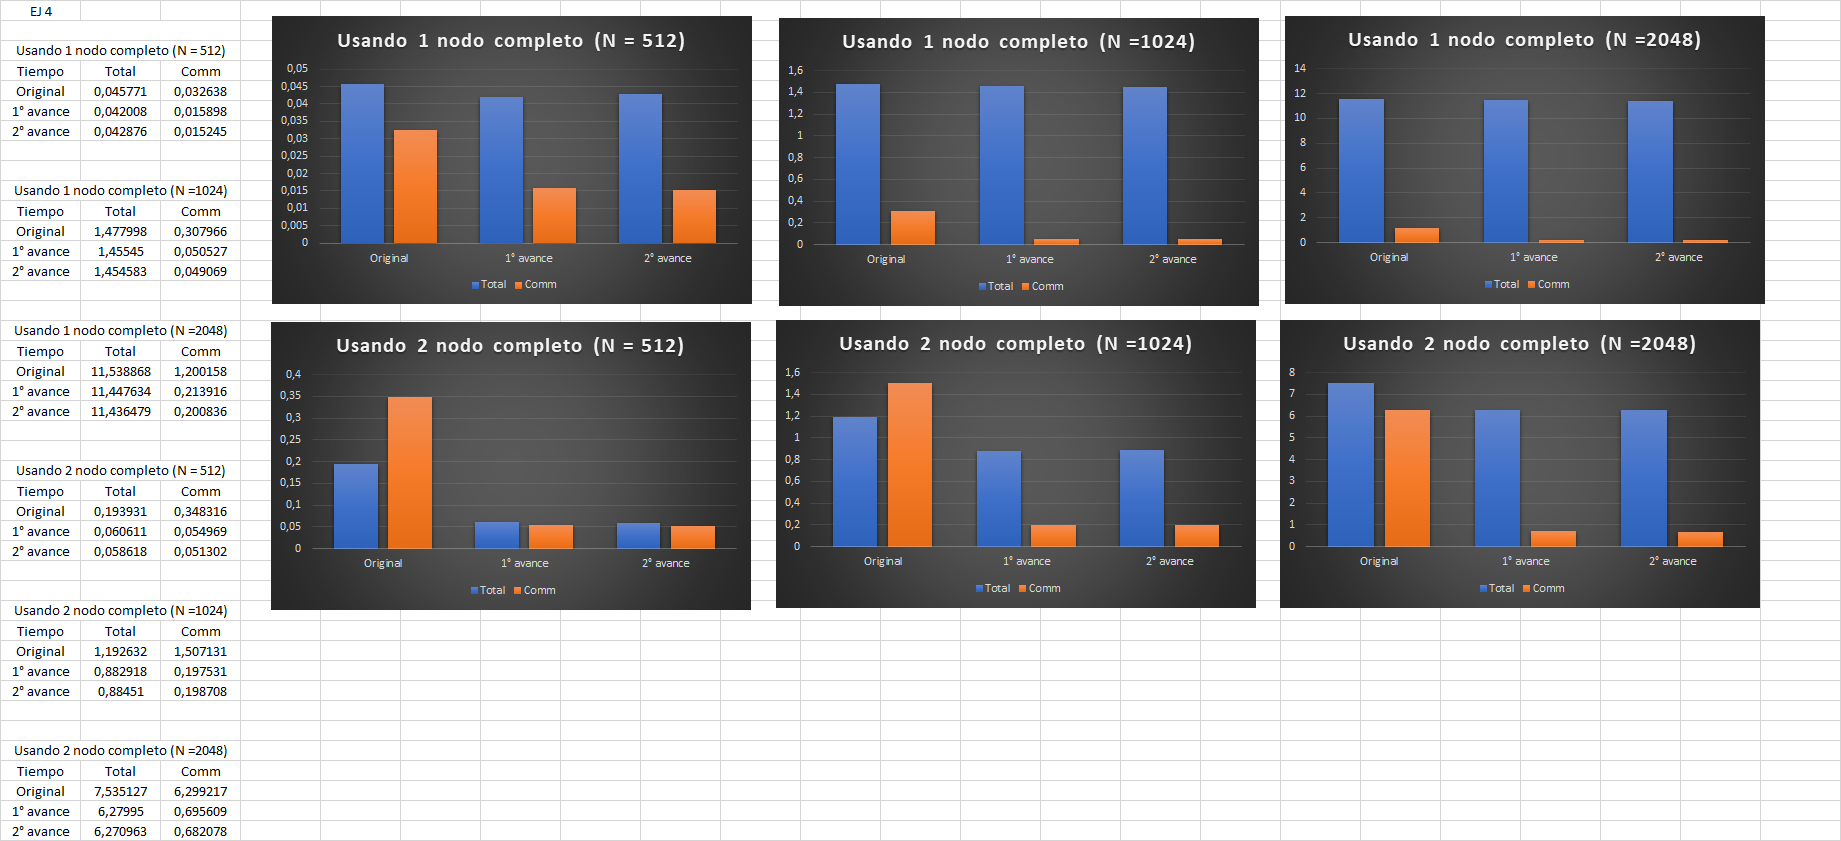
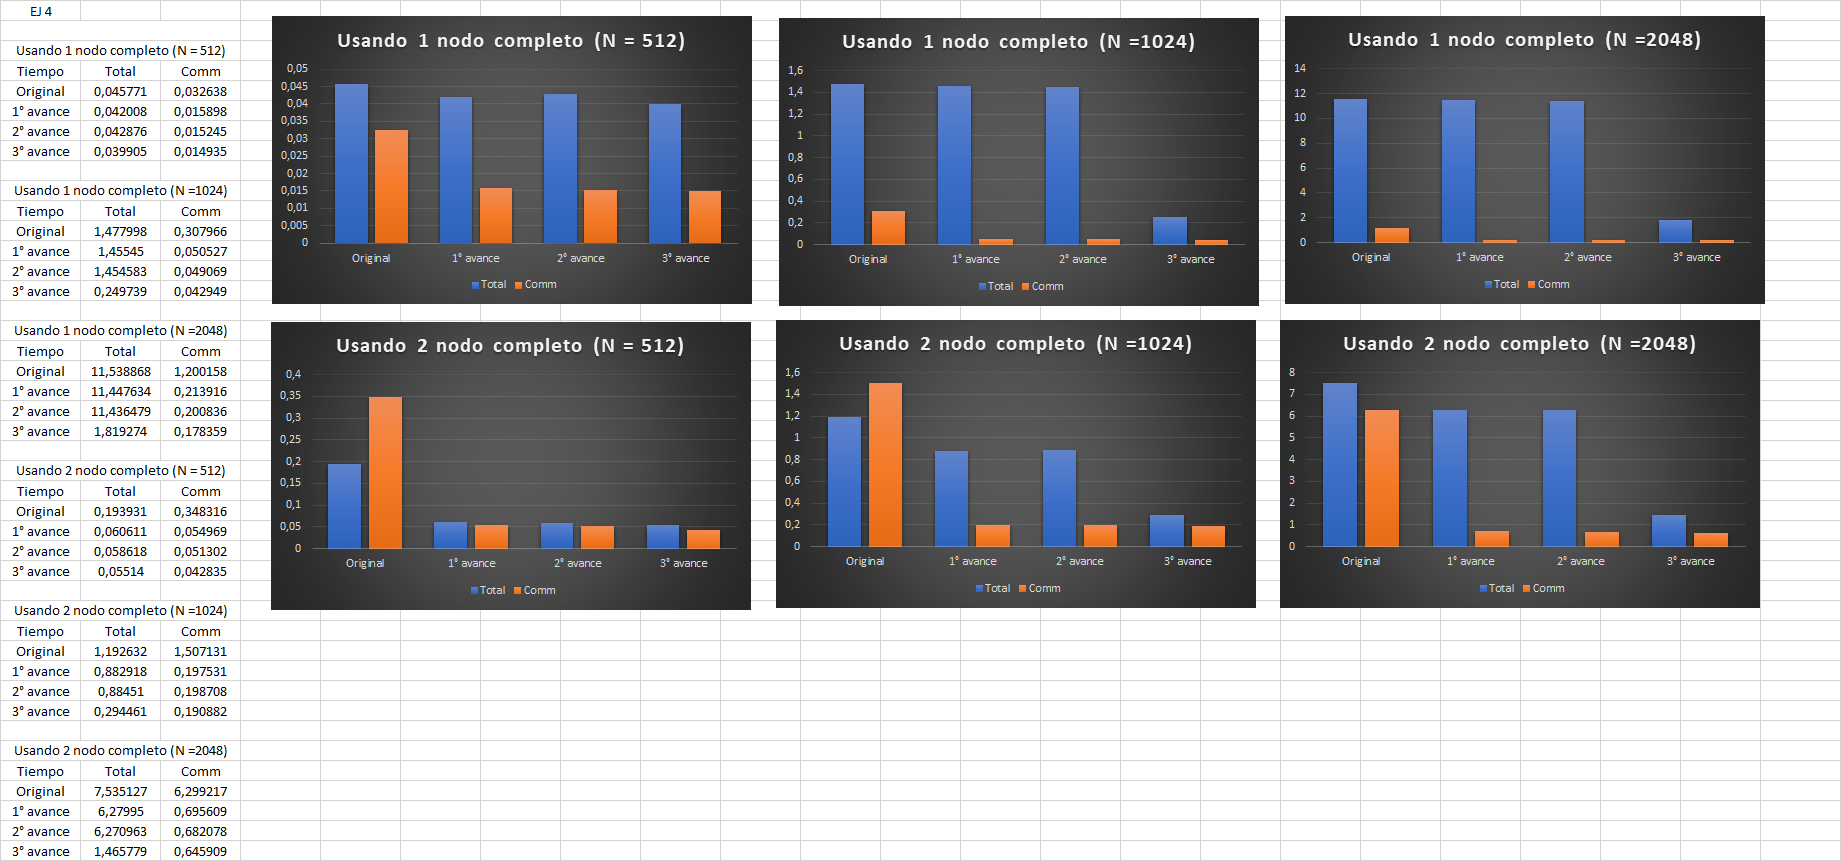
cambio ej4 por bloques

diff --git a/I404 - LIDI/P4 - MPI/ej4/ej4_colectiva.c b/I404 - LIDI/P4 - MPI/ej4/ej4_colectiva.c
@@ -4,6 +4,24 @@
 
 #define COORDINATOR 0
 
+// ------------------------- MULTIPLICACION POR BLOQUES ------------------------
+
+/* Multiply (block)submatrices */
+void blkmul(double *ablk, double *bblk, double *cblk, int n, int bs)
+{
+  int i, j, k;
+
+  for (i = 0; i < bs; i++){
+    for (j = 0; j < bs; j++){
+      for  (k = 0; k < bs; k++){
+        cblk[i*n + j] += ablk[i*n + k] * bblk[j*n + k];
+      }
+    }
+  }
+}
+
+// ------------------------------------------------------------------------------
+
 int main(int argc, char* argv[]){
 	int i, j, k, numProcs, rank, n, stripSize, check=1;
 	double * a, * b, *c;
@@ -64,8 +82,18 @@ int main(int argc, char* argv[]){
 	if (rank == COORDINATOR) commTimes[1] = MPI_Wtime();
 
 	/* computar multiplicacion parcial */
-	// este es el bloque paralelo
+	// para mejorar el speedup, se computa por bloques
+	int bs = 32;
 
+	for (i=0; i<stripSize; i+=bs){
+		for (j=0; j<n; j+=bs){
+			for (k=0; k<n; k+=bs){
+				blkmul(&a[i*n + k], &b[j*n + k], &c[i*n + j], n, bs);
+			}
+		}
+	}
+
+	/*
 	for (i=0; i<stripSize; i++) {
 		for (j=0; j<n; j++) {
 			c[i*n+j]=0;					
@@ -74,9 +102,11 @@ int main(int argc, char* argv[]){
 			}
 		}
 	}
-
+	*/
+	
 	if (rank == COORDINATOR) commTimes[2] = MPI_Wtime();
 	MPI_Gather(c, n*stripSize, MPI_DOUBLE, c, n*stripSize, MPI_DOUBLE, COORDINATOR, MPI_COMM_WORLD);
+	MPI_Barrier(MPI_COMM_WORLD);
 	if (rank == COORDINATOR) commTimes[3] = MPI_Wtime();
 
 	MPI_Finalize();
@@ -88,11 +118,8 @@ int main(int argc, char* argv[]){
 			for(j=0;j<n;j++)
 				check=check&&(c[i*n+j]==n);
 
-		if(check){
-			printf("Multiplicacion de matrices resultado correcto\n");
-		}else{
-			printf("Multiplicacion de matrices resultado erroneo\n");
-		}
+		if(check) printf("Multiplicacion de matrices resultado correcto\n");
+		else printf("Multiplicacion de matrices resultado erroneo\n");
 		
 		totalTime = commTimes[3] - commTimes[0];
 		commTime = (commTimes[1] - commTimes[0]) + (commTimes[3] - commTimes[2]);		
